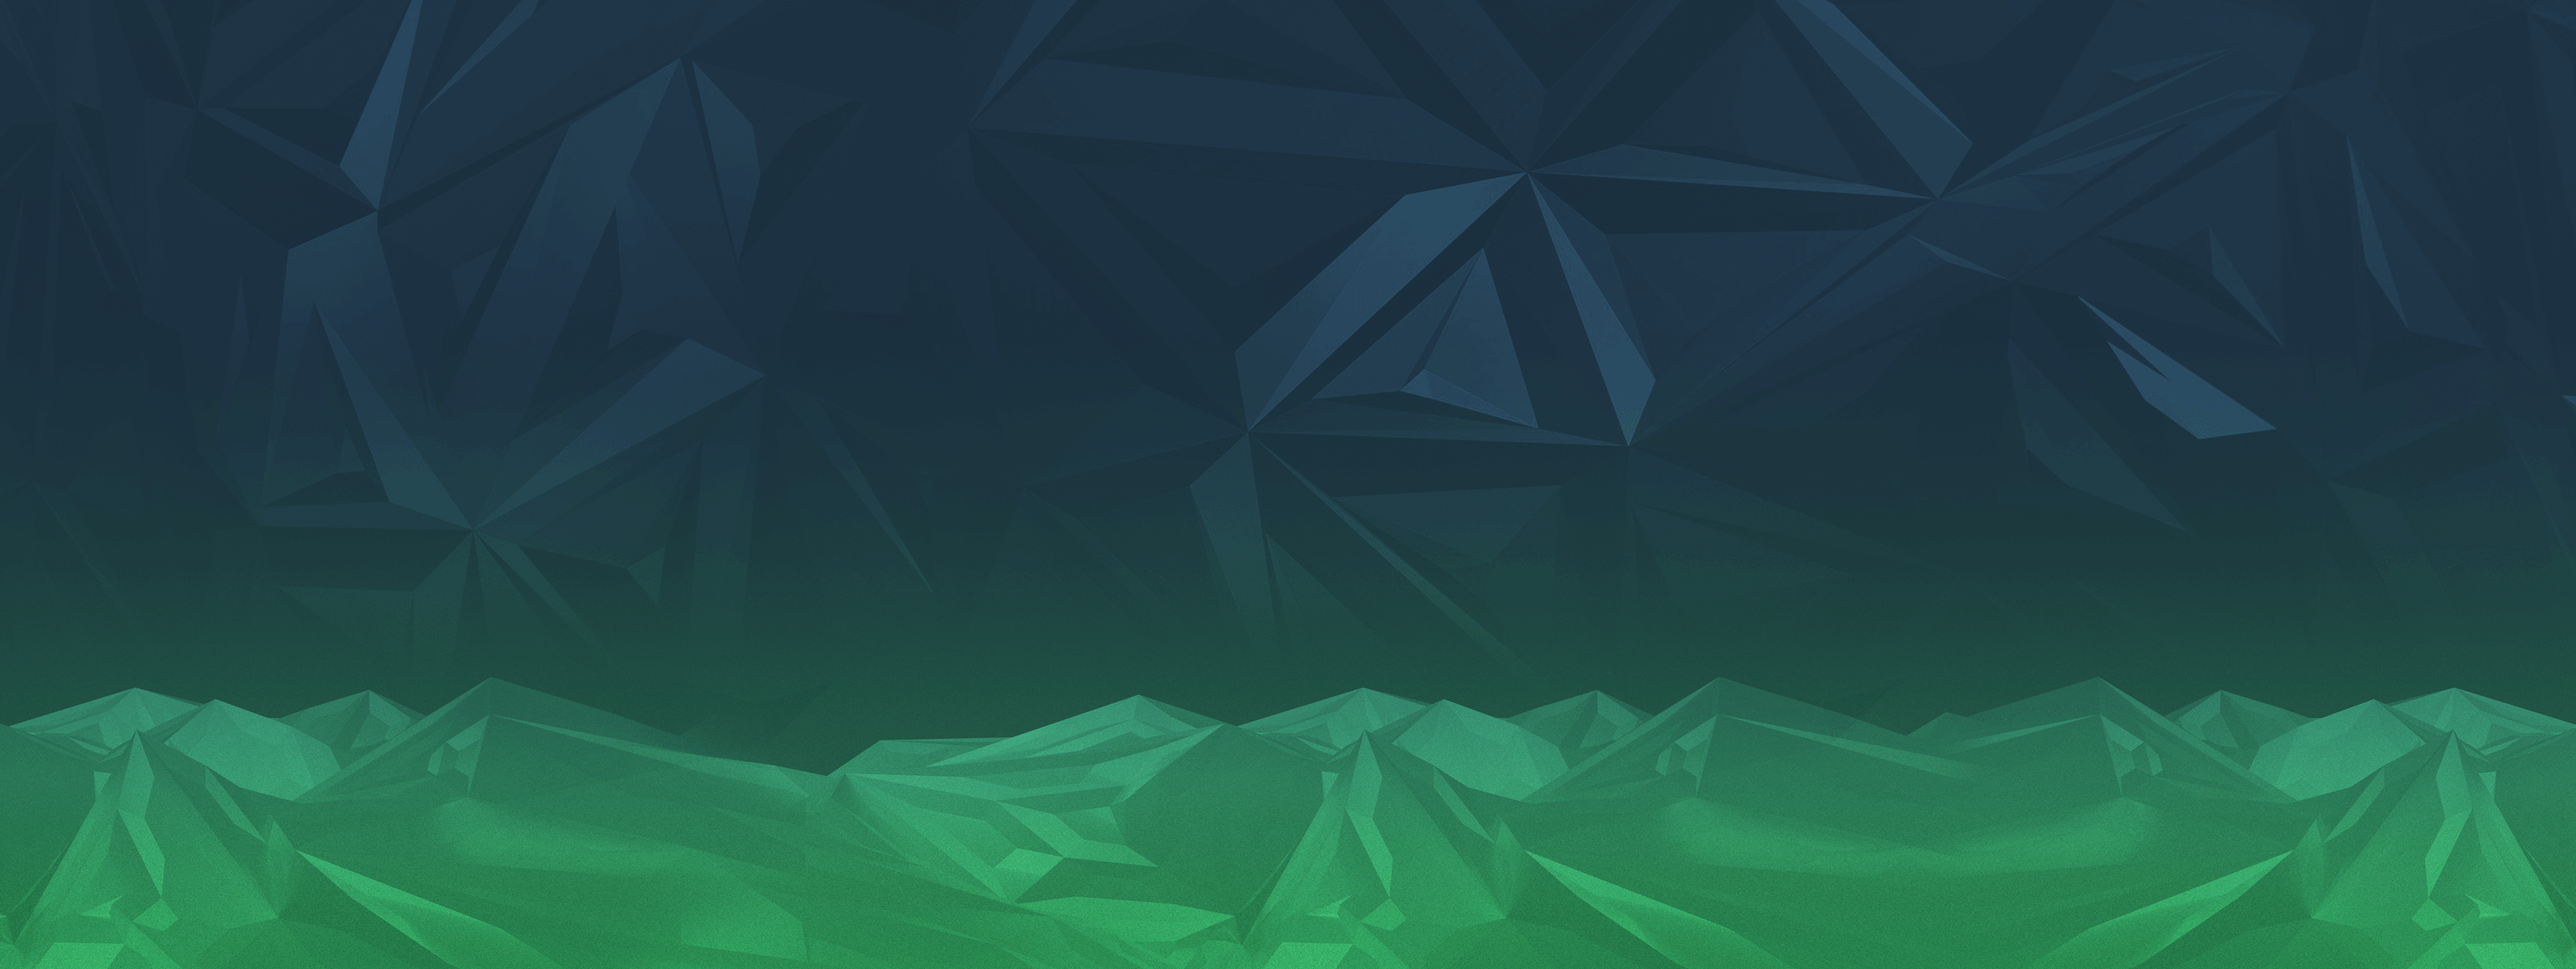
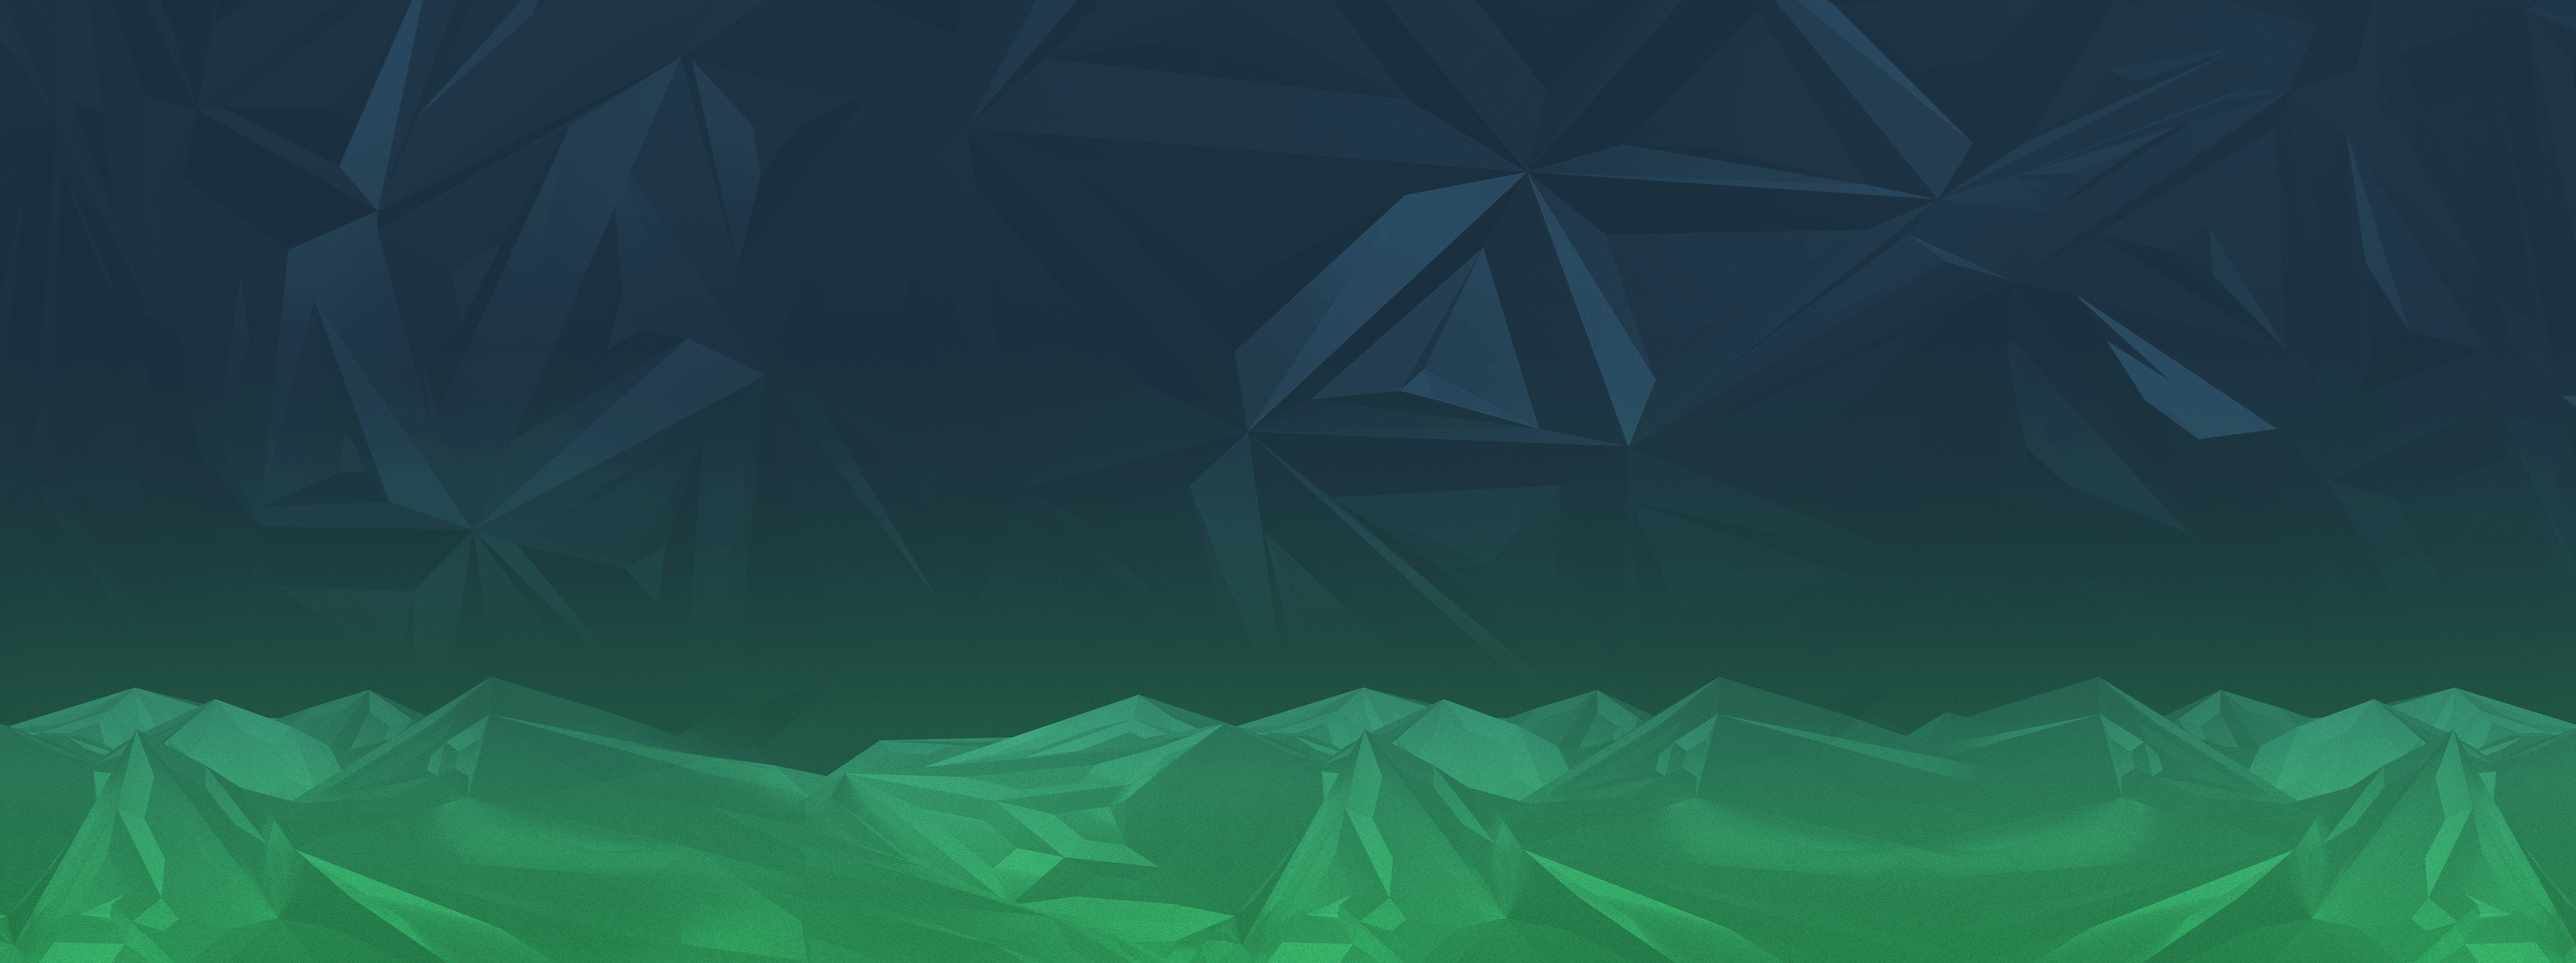
fix(footer): fix footer background according to main background

diff --git a/src/theme/index.tsx b/src/theme/index.tsx
@@ -13,7 +13,7 @@ import { Colors } from './styled'
 
 //import BentoBackground from '../assets/kashi/bento-background.jpg'
 import BrickWallBackground from '../assets/kashi/brickwall.png'
-import MainBackground from '../assets/images/website_background.png'
+import MainBackground from '../assets/images/website_background_extended.webp'
 
 export * from './components'
 
@@ -248,16 +248,28 @@ export const ThemedGlobalStyle = createGlobalStyle`
 html {
   color: ${({ theme }) => theme.text1};
   /*background-color: ${({ theme }) => theme.bg2};*/
-  background: linear-gradient(to top, #3c74a6 10% , #161459);
-  background-image: url(${MainBackground});
-  background-size: cover;
-  background-repeat: no-repeat;
+  position: relative;
+    &::after {
+        content: '';
+        position: absolute;
+        top: 0;
+        right: 0;
+        bottom: 0;
+        left: 0;
+        background: linear-gradient(to top, #3c74a6 10% , #161459);
+        background-image: url(${MainBackground});
+        z-index: -10;
+        background-size: cover;
+        background-repeat: no-repeat;
+    }
+   
 }
 
 body {
   min-height: 100vh;
   background-position: 0 -30vh;
   background-repeat: no-repeat;
+  background-color: #1C383E;
   background-image: ${({ theme }) =>
       `radial-gradient(50% 50% at 50% 50%, ${transparentize(0.9, '#27b0e6')} 0%, ${transparentize(
           1,

diff --git a/src/components/Footer/index.tsx b/src/components/Footer/index.tsx
@@ -8,13 +8,25 @@ import Twitter from '../../assets/images/twitter.svg'
 import Facebook from '../../assets/images/facebook.svg'
 import Instagram from '../../assets/images/instagram.svg'
 import Linkedin from '../../assets/images/linkedin.svg'
+import { transparentize } from 'polished'
 
 const FooterFrame = styled.div`
     width: 100%;
-    background: linear-gradient(180deg, #1d4941 0%, #1c383e 100%);
-    opcacity: 0.7;
     padding: 52px 6vw 28px;
     margin-top: 182px;
+    position: relative;
+
+    &::after {
+        content: '';
+        position: absolute;
+        top: 0;
+        right: 0;
+        bottom: 0;
+        left: 0;
+        background: linear-gradient(180deg, #1d4941 0%, #1c383e 100%);
+        opacity: 0.7;
+        z-index: -1;
+    }
 `
 
 const FooterContent = styled.div`
